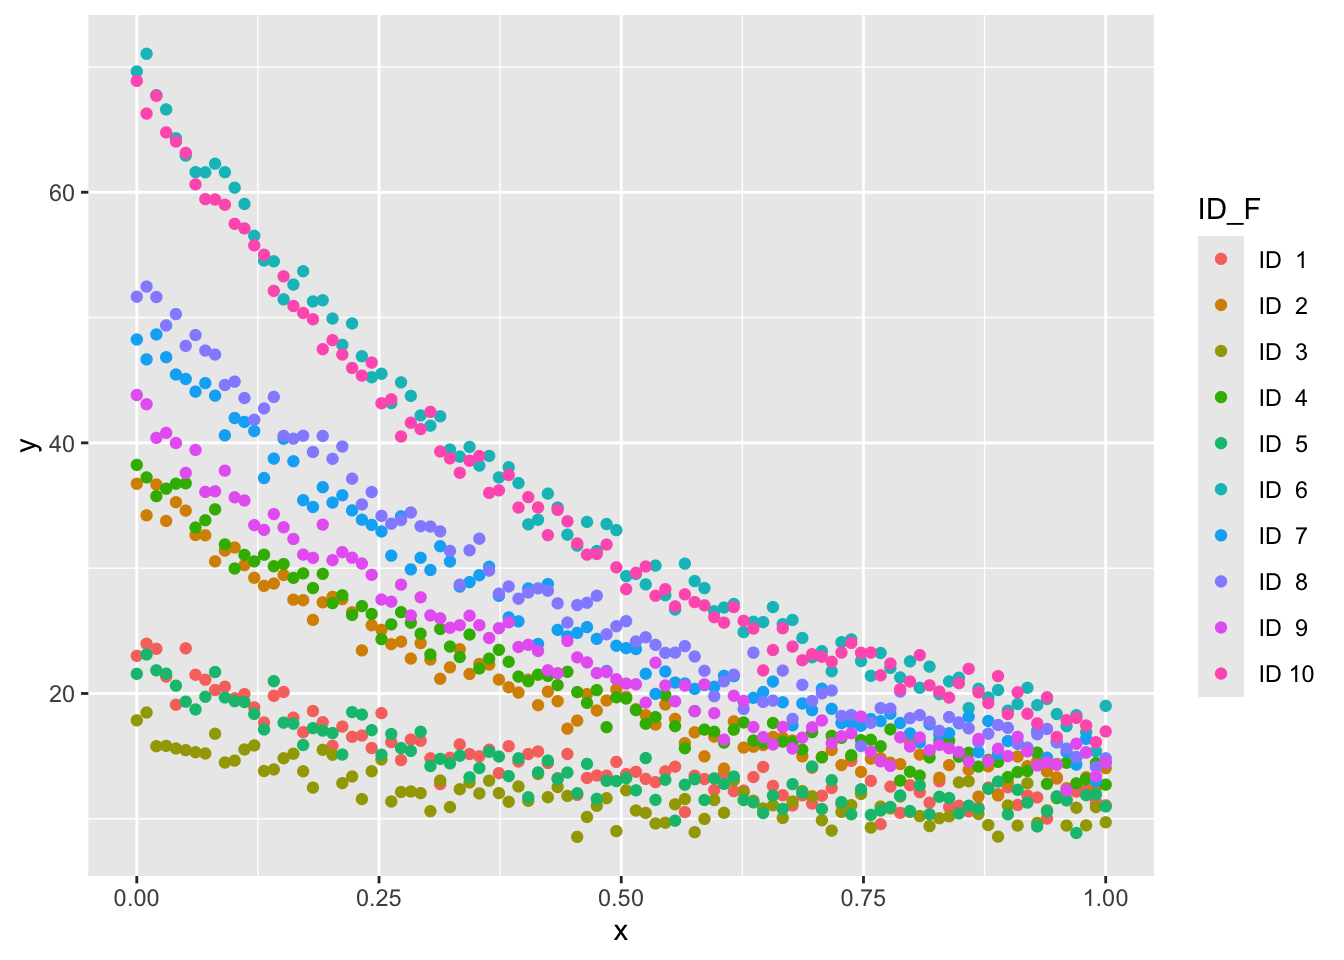
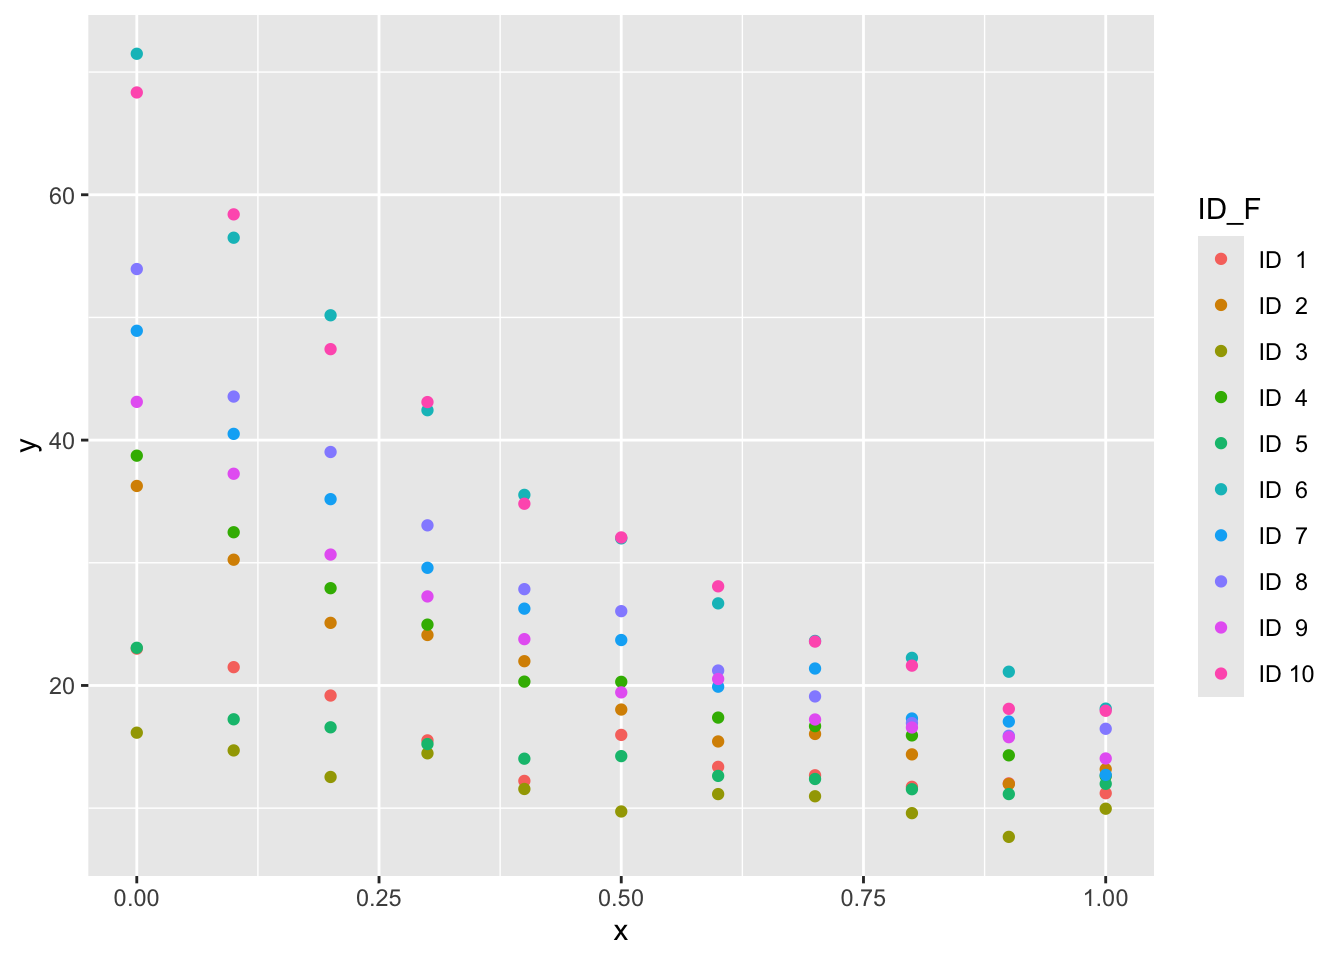
some changes

diff --git a/_site/posts/2024-06-22-nonlinear-least-squares/2024-06-22-nonlinear-least-squares.html b/_site/posts/2024-06-22-nonlinear-least-squares/2024-06-22-nonlinear-least-squares.html
@@ -270,7 +270,7 @@ Attaching package: 'nlme'</code></pre>
 <span id="cb11-6"><a href="#cb11-6" aria-hidden="true" tabindex="-1"></a>)</span>
 <span id="cb11-7"><a href="#cb11-7" aria-hidden="true" tabindex="-1"></a></span>
 <span id="cb11-8"><a href="#cb11-8" aria-hidden="true" tabindex="-1"></a></span>
-<span id="cb11-9"><a href="#cb11-9" aria-hidden="true" tabindex="-1"></a>nr_of_time_points <span class="ot">&lt;-</span> <span class="dv">100</span></span>
+<span id="cb11-9"><a href="#cb11-9" aria-hidden="true" tabindex="-1"></a>nr_of_time_points <span class="ot">&lt;-</span> <span class="dv">11</span></span>
 <span id="cb11-10"><a href="#cb11-10" aria-hidden="true" tabindex="-1"></a>nr_of_individuals <span class="ot">&lt;-</span> <span class="dv">100</span></span>
 <span id="cb11-11"><a href="#cb11-11" aria-hidden="true" tabindex="-1"></a></span>
 <span id="cb11-12"><a href="#cb11-12" aria-hidden="true" tabindex="-1"></a>dat <span class="ot">&lt;-</span> <span class="fu">tibble</span>(<span class="at">ID =</span> <span class="dv">1</span><span class="sc">:</span>nr_of_individuals,</span>
@@ -304,17 +304,17 @@ Attaching package: 'nlme'</code></pre>
 <pre><code>Nonlinear mixed-effects model fit by maximum likelihood
   Model: y ~ a * exp(-b * x) + c * x + d 
   Data: dat 
-  Log-likelihood: -14761.06
+  Log-likelihood: -1975.921
   Fixed: a + b + c + d ~ 1 
         a         b         c         d 
-29.291262  2.005542  4.051517  4.971401 
+29.160210  2.007677  4.052822  5.032469 
 
 Random effects:
  Formula: a ~ 1 | ID
                a Residual
-StdDev: 19.07462 1.011827
+StdDev: 19.15211 1.067241
 
-Number of Observations: 10000
+Number of Observations: 1100
 Number of Groups: 100 </code></pre>
 </div>
 </div>

diff --git a/_site/index.html b/_site/index.html
@@ -234,7 +234,7 @@ window.Quarto = {
     </div>
 </div>
 <div class="list quarto-listing-default">
-<div class="quarto-post image-right" data-index="0" data-categories="R" data-listing-date-sort="1719007200000" data-listing-file-modified-sort="1719048405394" data-listing-date-modified-sort="NaN" data-listing-reading-time-sort="2" data-listing-word-count-sort="346">
+<div class="quarto-post image-right" data-index="0" data-categories="R" data-listing-date-sort="1719007200000" data-listing-file-modified-sort="1719048588842" data-listing-date-modified-sort="NaN" data-listing-reading-time-sort="2" data-listing-word-count-sort="346">
 <div class="thumbnail">
 <p><a href="./posts/2024-06-22-nonlinear-least-squares/2024-06-22-nonlinear-least-squares.html" class="no-external"></a></p><a href="./posts/2024-06-22-nonlinear-least-squares/2024-06-22-nonlinear-least-squares.html" class="no-external">
 <p class="card-img-top"><img src="posts/2024-06-22-nonlinear-least-squares/2024-06-22-nonlinear-least-squares_files/figure-html/unnamed-chunk-2-1.png"  class="thumbnail-image card-img"/></p>

diff --git a/_site/posts/2024-05-03-webassembly-experiment/2024-05-03-webassembly-experiment.html b/_site/posts/2024-05-03-webassembly-experiment/2024-05-03-webassembly-experiment.html
@@ -273,7 +273,7 @@ globalThis.qwebrCustomizedWebROptions = {
 };
 
 // Store cell data
-globalThis.qwebrCellDetails = [{"id":1,"options":{"fig-width":7,"out-height":"","fig-height":5,"read-only":"false","context":"interactive","classes":"","editor-font-scale":1,"editor-quick-suggestions":"false","comment":"","warning":"true","autorun":"false","out-width":"700px","editor-max-height":"","message":"true","output":"true","fig-cap":"","results":"markup","dpi":72,"label":"unnamed-chunk-1"},"code":"plot(1:10)\ncars |> \n  ggplot(aes(speed, dist)) + geom_point()"}];
+globalThis.qwebrCellDetails = [{"code":"plot(1:10)\ncars |> \n  ggplot(aes(speed, dist)) + geom_point()","id":1,"options":{"classes":"","autorun":"false","fig-height":5,"results":"markup","message":"true","out-height":"","comment":"","out-width":"700px","label":"unnamed-chunk-1","editor-quick-suggestions":"false","context":"interactive","editor-font-scale":1,"fig-cap":"","fig-width":7,"editor-max-height":"","read-only":"false","output":"true","dpi":72,"warning":"true"}}];
 
 </script>
 <script type="module">
